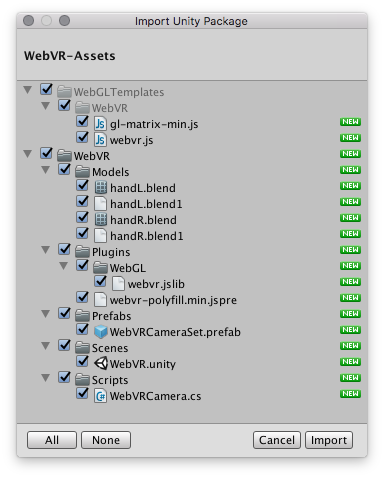
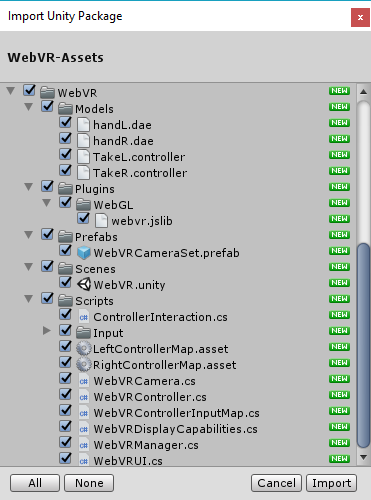
Updates project setup with newest flows.

diff --git a/docs/project-setup.md b/docs/project-setup.md
@@ -14,46 +14,45 @@ Open the menus: `File > Build Settings`
 
 ![WebGL Platform](./images/webgl-platform.png)
 
-## 3. Import the WebVR assets to your project.
+## 3. Download the assets from the Unity Asset store.
 
-Download the Unity package from GitHub: [`WebVR-Assets.unitypackage`](https://github.com/mozilla/unity-webvr-export/raw/master/WebVR-Assets.unitypackage)
+**[Unity Asset Store page](https://assetstore.unity.com/packages/templates/systems/webvr-assets-109152).**
 
-Import the package into your project:
+![Asset Store](./images/asset-store.png)
 
-```
-Assets > Import Package > Custom Package
-```
+Alternatively, download and install the [`WebVR-Assets.unitypackage`](https://github.com/mozilla/unity-webvr-export/raw/master/WebVR-Assets.unitypackage) from this repo and use (`Assets > Import Package > Custom Package`) to import the package into your project.
 
 ![WebVR package](./images/import-package.png)
 
-## 4. Disable the classical camera and add the WebVR camera.
+## 4. Add the WebVR prefab to your scene.
 
-Select `Main Camera` from the scene's `Hierarchy`; then, disable the camera from the `Inspector`.
+Disable the standard default camera, so that it does not interfere with the cameras used in the WebVR prefab.
+
+To do this, select `Main Camera` from the scene's `Hierarchy`; then, delete or disable the camera from the `Inspector`.
 
 ![WebVR package](./images/disable-main-camera.png)
 
-Add the `WebVRCameraSet` prefab (`Assets > WebVR > Prefabs > WebVRCameraSet.prefab`), and optionally the hand-controller models to your scene from the `WebVR > Models` folder:
+Add the `WebVRCameraSet` prefab (`Assets > WebVR > Prefabs > WebVRCameraSet.prefab`):
 
-![Import prefab and models](./images/camera-prefab-models.gif)
+![Import prefab](./images/camera-prefab.gif)
 
-## 5. Add controller models to `WebVRCamera` component.
+The prefab contains hand controllers, VR Camera setup and other components needed for your game to work with WebVR. 
 
-Set up `GameObject`s that you would like to be used for left/hand controllers by attaching them to the `WebVRCameraSet` component `Left Hand Obj` and `Right Hand Obj` fields.
+## 5. You're Unity project is setup. Play to see the result!
 
-![Controller setup](./images/attach-controllers.gif)
+![Import prefab](./images/editor-play.gif)
 
-## 6. Select the WebVR template from player settings.
+## 6. Build your project to WebVR
+
+### Select the WebVR template from player settings.
 
 Go to `Edit > Project Settings > Player`:
 
 ![WebVR template](./images/webvr-template.png)
 
-## 7. Build and run your project!
+### Build and run your project in the browser!
 
 Click on `File > Build & Run`, select a destination folder and Unity will compile your code and and launch the game in your **default** browser. If you want to open the game in another browser, copy and paste the URL of the game.
 
 Under the hood, when clicking `Build & Run`, Unity will place all the needed files in the selected folder and will spin up a development web server pointing there. If you want to provide your own server, choose `File > Build` instead.
 
-## 8. Adapt your game.
-
-You will probably need to adapt your game mechanics and camera behaviours to integrate with WebVR. Good luck!
